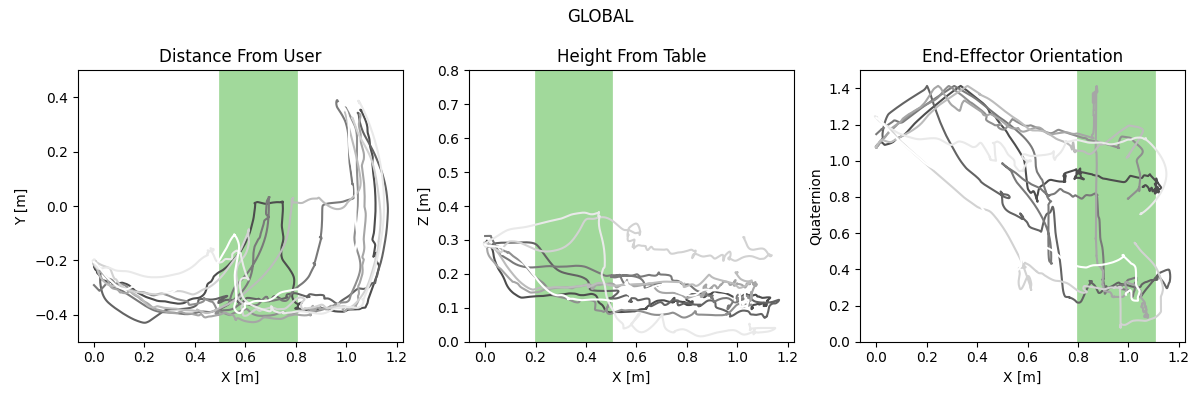
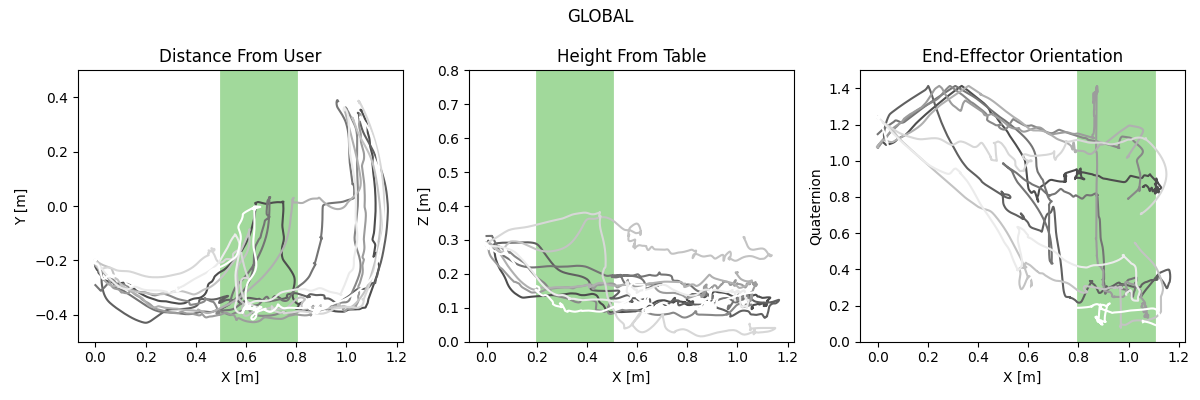
timeplots

diff --git a/new_plot_time.py b/new_plot_time.py
@@ -1,0 +1,183 @@
+import time
+import numpy as np
+import pickle
+import argparse
+import matplotlib.pyplot as plt
+from pyquaternion import Quaternion
+from scipy import interpolate
+from utils import *
+
+
+Panda = TrajectoryClient()
+
+def average(lst):
+    return sum(lst) / len(lst)
+
+def region(ax, start_marg, end_marg):
+    ax.axvspan(start_marg, end_marg, color='#a1d99b')
+
+def get_idx(X):
+    idx_1 = len(X[X <= x_margin_1])
+    idx_2 = idx_1 + len(X[(X > x_margin_1) & (X <= x_margin_2)])
+    idx_3 = idx_2 + len(X[(X > x_margin_2) & (X < x_margin_3)])
+    return idx_1, idx_2, idx_3
+
+def mean_error(arr, base):
+    error = np.mean(abs(base - arr) / len(arr))
+    return np.round(100 * error, 3)
+
+def quat_error(R):
+    diff = []
+    for r in R:
+        diff.append(Quaternion.absolute_distance(Panda.rot2quat(R_desire), Panda.rot2quat(r)))
+    return np.array(diff)
+
+def compute_time(joint_pos, time_steps):
+    t_active = 0
+    seg_joint_pos = np.array(joint_pos)
+    norm_pos = np.linalg.norm(seg_joint_pos, axis=1, keepdims=True)
+
+    count = 0
+    for idx in range(1, len(seg_joint_pos)):
+        if np.linalg.norm(seg_joint_pos[idx] - seg_joint_pos[idx-1]) >= 0.01:
+            count += 1
+    return 100 * count/time_steps
+
+
+X = {}
+Y = {}
+Z = {}
+Quat = {}
+n = len(USERS)
+
+for method in ["GUI", "local", "global"]:
+    x = {}
+    t_y = {}
+    t_z = {}
+    t_quat = {}
+
+    for user_n in USERS:
+        filename = "data/demos/user_" + str(user_n) + "_" + method +  ".pkl"
+        file = open(filename, "rb")
+        data = pickle.load(file)
+        print(data.keys())
+
+        joint_pos = data["joint positions"]
+        R = data["rotation matrix"]
+        time = data["time"]
+        ee = data["ee positions"]
+
+        points = np.array(ee).T
+        time_steps = len(time)
+        x["user_" + str(user_n)] = points[0,:]
+
+        marg_1_idx, marg_2_idx, marg_3_idx = get_idx(points[0, :])
+        if method == "GUI":
+            t_z["user_" + str(user_n)] = compute_time(joint_pos[:marg_1_idx], time_steps)
+            t_quat["user_" + str(user_n)] = compute_time(joint_pos[marg_1_idx:marg_2_idx], time_steps)
+            t_y["user_" + str(user_n)] = compute_time(joint_pos[marg_2_idx:marg_3_idx], time_steps)
+        elif method == "global":
+            t_z["user_" + str(user_n)] = compute_time(joint_pos[:marg_1_idx], time_steps)
+            t_y["user_" + str(user_n)] = compute_time(joint_pos[marg_1_idx:marg_2_idx], time_steps)
+            t_quat["user_" + str(user_n)] = compute_time(joint_pos[marg_2_idx:marg_3_idx], time_steps)
+        elif method == "local":
+            t_quat["user_" + str(user_n)] = compute_time(joint_pos[:marg_1_idx], time_steps)
+            t_z["user_" + str(user_n)] = compute_time(joint_pos[marg_1_idx:marg_2_idx], time_steps)
+            t_y["user_" + str(user_n)] = compute_time(joint_pos[marg_2_idx:marg_3_idx], time_steps)
+
+    X[method] = x
+    Y[method] = t_y
+    Z[method] = t_z
+    Quat[method] = t_quat
+
+### user feature times ###
+GUI_h_time = Z["GUI"].values()
+GUI_orien_time = Quat["GUI"].values()
+GUI_dist_time = Y["GUI"].values()
+
+global_h_time = Z["global"].values()
+global_dist_time = Y["global"].values()
+global_orien_time = Quat["global"].values()
+
+local_orien_time = Quat["local"].values()
+local_h_time = Z["local"].values()
+local_dist_time = Y["local"].values()
+
+
+### plot time bars ###
+fig, (ax1, ax2, ax3) = plt.subplots(1, 3, figsize=(12,4))
+fig.suptitle('\n')
+
+# set width of bar
+barWidth = 0.25
+
+# Set position of bar on X axis
+br1 = np.arange(n)
+br2 = [x + barWidth for x in br1]
+br3 = [x + barWidth for x in br2]
+
+plt.setp((ax1, ax2, ax3),
+        xticks=br1+barWidth, xticklabels=br1+1,
+        xlabel='Users', ylabel='Percent Time')
+
+# plot distance time
+ax1.bar(br1, GUI_dist_time, color ='#d9d9d9', width = barWidth, label ='GUI')
+ax1.bar(br2, local_dist_time, color ='#b3de69', width = barWidth, label ='Local')
+ax1.bar(br3, global_dist_time, color ='#ff7f00', width = barWidth, label ='Global')
+ax1.title.set_text('Distance From User')
+
+# plot height time
+ax2.bar(br1, GUI_h_time, color ='#d9d9d9', width = barWidth, label ='GUI')
+ax2.bar(br2, local_h_time, color ='#b3de69', width = barWidth, label ='Local')
+ax2.bar(br3, global_h_time, color ='#ff7f00', width = barWidth, label ='Global')
+ax2.title.set_text('Height From Table')
+
+# plot orientation time
+ax3.bar(br1, GUI_orien_time, color ='#d9d9d9', width = barWidth, label ='GUI')
+ax3.bar(br2, local_orien_time, color ='#b3de69', width = barWidth, label ='Local')
+ax3.bar(br3, global_orien_time, color ='#ff7f00', width = barWidth, label ='Global')
+ax3.title.set_text('End-Effector Orientation')
+
+handles, labels = ax1.get_legend_handles_labels()
+fig.legend(handles, labels, loc='upper center', ncol=3)
+
+plt.tight_layout()
+plt.savefig("results_plot/users_time.png")
+
+
+### user mean feature times ###
+GUI_dist_time_mean = average(list(GUI_dist_time))
+GUI_h_time_mean = average(list(GUI_h_time))
+GUI_orien_time_mean = average(list(GUI_orien_time))
+GUI_mean = [GUI_dist_time_mean, GUI_h_time_mean, GUI_orien_time_mean]
+
+local_dist_time_mean = average(list(local_dist_time))
+local_h_time_mean = average(list(local_h_time))
+local_orien_time_mean = average(list(local_orien_time))
+local_mean = [local_dist_time_mean, local_h_time_mean, local_orien_time_mean]
+
+global_dist_time_mean = average(list(global_dist_time))
+global_h_time_mean = average(list(global_h_time))
+global_orien_time_mean = average(list(global_orien_time))
+global_mean = [global_dist_time_mean, global_h_time_mean, global_orien_time_mean]
+
+stacked_means = np.sum(np.array([GUI_mean, local_mean, global_mean]), axis=1, keepdims=True)
+# exit()
+
+fig = plt.figure()
+features = ['Distance','Height','Orient', 'Overall']
+
+# Set position of bar on X axis
+barWidth = 0.25
+br1 = np.arange(len(features))
+br2 = [x + barWidth for x in br1]
+br3 = [x + barWidth for x in br2]
+
+plt.bar(br1, GUI_mean + list(stacked_means[0]), width = barWidth, color ='#d9d9d9', label = 'GUI')
+plt.bar(br2, local_mean + list(stacked_means[1]), width = barWidth, color ='#b3de69', label = 'Local')
+plt.bar(br3, global_mean + list(stacked_means[2]), width = barWidth, color ='#ff7f00', label = 'Global')
+
+plt.xticks(br2, features)
+plt.ylabel('Percent Time')
+plt.legend(ncol=3, bbox_to_anchor=(0.62, 1.1))
+plt.savefig("results_plot/users_mean_time.png")

diff --git a/plot_traj.py b/plot_traj.py
@@ -18,9 +18,8 @@ X = {}
 Y = {}
 Z = {}
 Quat = {}
-n = 9
+n = len(USERS)
 colors = np.linspace(0.3, 1, n).tolist()
-
 
 for method in ["GUI", "local", "global"]:
     fig, (ax1, ax2, ax3) = plt.subplots(1, 3, figsize=(12,4))
@@ -31,7 +30,7 @@ for method in ["GUI", "local", "global"]:
     z = {}
     quat = {}
 
-    for user_n in range(1, n+1):
+    for user_n in USERS:
         filename = "data/demos/user_" + str(user_n) + "_" + method +  ".pkl"
         file = open(filename, "rb")
         data = pickle.load(file)
@@ -56,11 +55,11 @@ for method in ["GUI", "local", "global"]:
     Quat[method] = quat
 
     ### plot user demonstrations ###
-    for user_n in range(1, n+1):
+    for idx, user_n in enumerate(USERS):
 
         # distance
         ax1.plot(X[method]["user_" + str(user_n)], Y[method]["user_" + str(user_n)],
-                            label="user_" + str(user_n), c=str(colors[user_n-1]))
+                            label="user_" + str(user_n), c=str(colors[idx]))
         ax1.set_xlabel('X [m]')
         ax1.set_ylabel('Y [m]')
         ax1.set_ylim(-0.5, 0.5)
@@ -74,7 +73,7 @@ for method in ["GUI", "local", "global"]:
 
         # height
         ax2.plot(X[method]["user_" + str(user_n)], Z[method]["user_" + str(user_n)],
-                            c=str(colors[user_n-1]))
+                            c=str(colors[idx]))
         ax2.set_xlabel('X [m]')
         ax2.set_ylabel('Z [m]')
         ax2.set_ylim(0, 0.8)
@@ -88,7 +87,7 @@ for method in ["GUI", "local", "global"]:
 
         # orientation
         ax3.plot(X[method]["user_" + str(user_n)], Quat[method]["user_" + str(user_n)],
-                            c=str(colors[user_n-1]))
+                            c=str(colors[idx]))
         ax3.set_xlabel('X [m]')
         ax3.set_ylabel('Quaternion')
         ax3.set_ylim(0, 1.5)
@@ -101,6 +100,5 @@ for method in ["GUI", "local", "global"]:
             region(ax3, 0.2, 0.5)
 
 
-    # plt.rc('axes', prop_cycle=(cycler('color', 'g', 'b', 'y')))
     plt.tight_layout()
     plt.savefig("results_plot/" + method + ".png")

diff --git a/plot_error.py b/plot_error.py
@@ -40,14 +40,14 @@ Quat = {}
 h_base = 0.0
 dist_base = -0.45
 orien_base = 0.0
-n = 9
+n = len(USERS)
 
 for method in ["GUI", "local", "global"]:
     x = {}
     y = {}
     z = {}
     quat = {}
-    for user_n in range(1, n+1):
+    for user_n in USERS:
         filename = "data/demos/user_" + str(user_n) + "_" + method +  ".pkl"
         file = open(filename, "rb")
         data = pickle.load(file)

diff --git a/utils.py b/utils.py
@@ -10,6 +10,9 @@ from tkinter import *
 import serial
 
 
+########## User number list ##########
+USERS = [1,2,3,4,5,7,8,9,10]
+
 ########## robot home joint positions ##########
 HOME = [-1.45, -0.42, -0.88, -2.46, -0.8, 1.72, 0.8]
 
